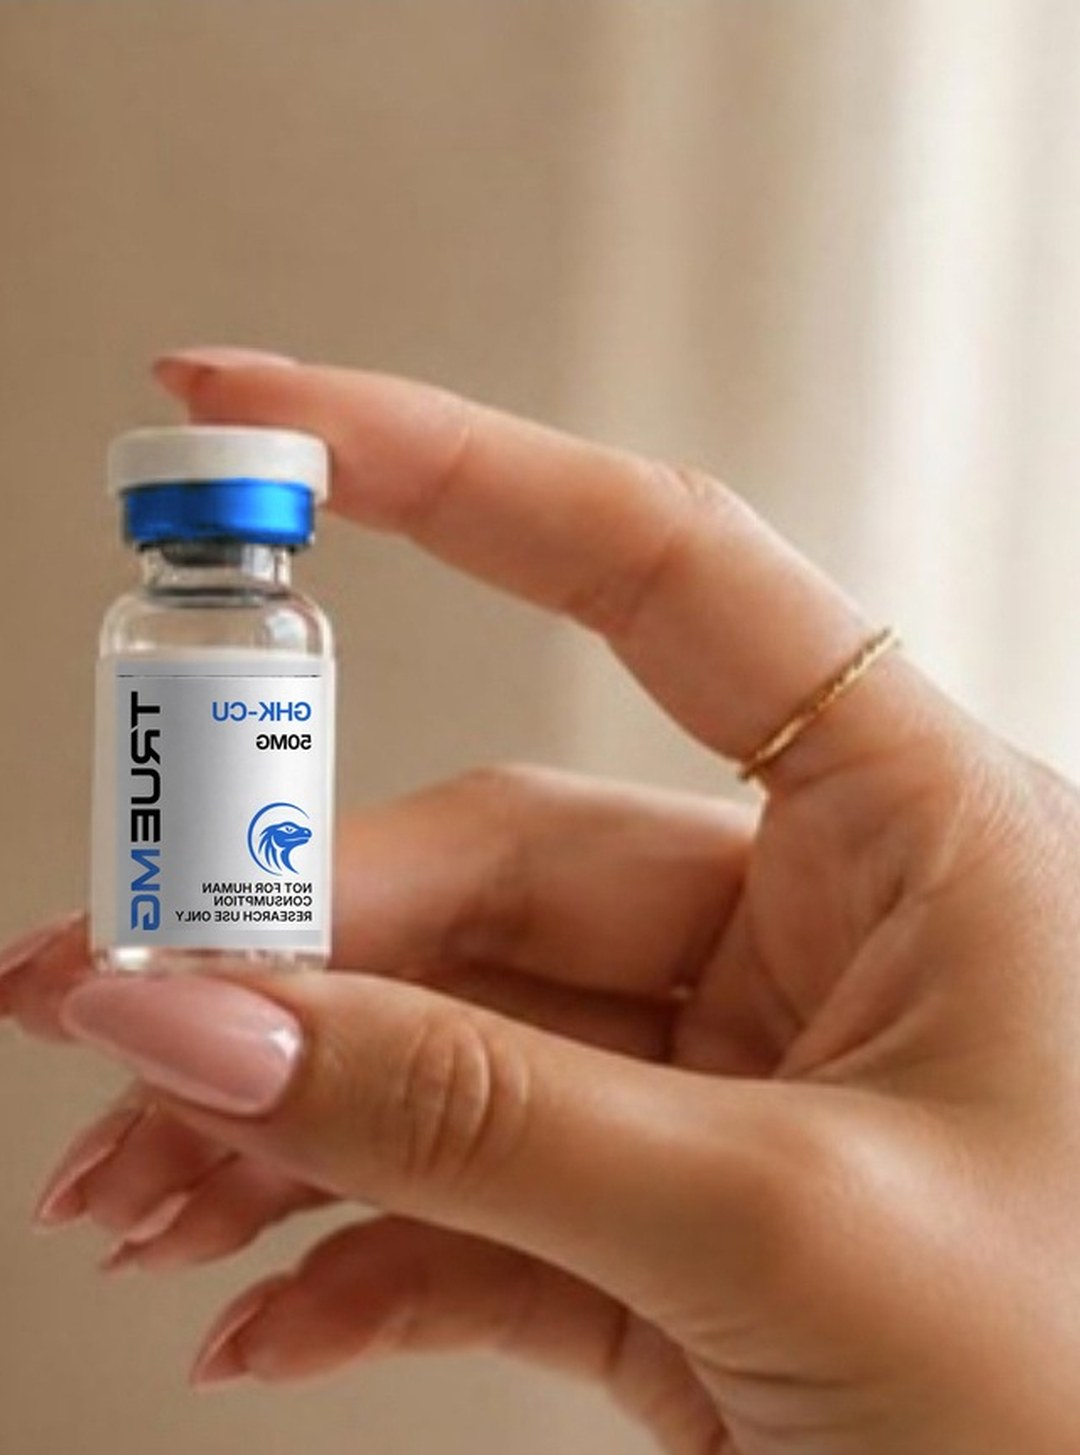
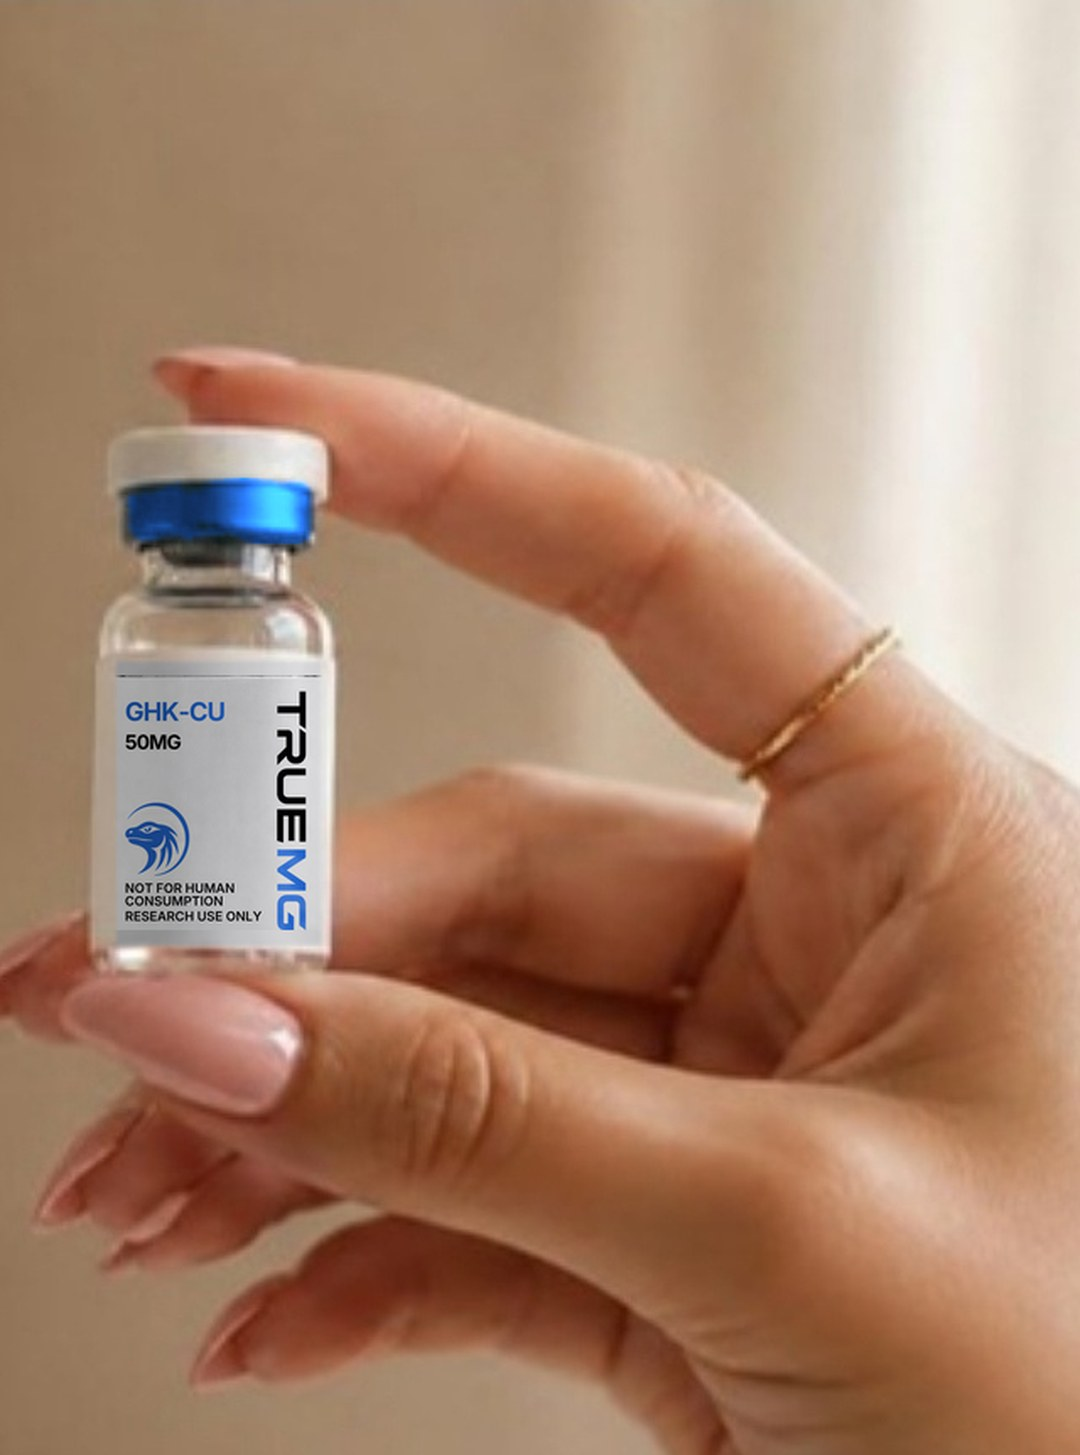
Mirror the plate before labelling it, not after
Flipping the finished composite flipped the artwork with it: GHK-CU came out
backwards on the hero. The mirror now happens to the photograph first, with the
label panel and crimp boxes mirrored to match, and the artwork goes on the
right way round afterwards.

Claude-Session: https://claude.ai/code/session_01GVck48CzMY6cqm4QCmkhM1

Changed region(s): [[0.0917, 0.4639, 0.3056, 0.6495]]

diff --git a/truemg/assets/web/handvial.py b/truemg/assets/web/handvial.py
@@ -33,6 +33,13 @@ PLATE = "hand-vial.jpg"
 NAME = "ghk-cu"                            # any sprite in ../vials
 OUT = "hand-vial-labelled.jpg"
 
+# The hero's headline owns the left, so a hero cut of this needs the hand
+# entering from the right. Mirroring costs nothing in the photograph — no text,
+# no handedness that reads as wrong — but it MUST happen before the label goes
+# on, not after. Flipping the finished composite flips the artwork with it and
+# "GHK-CU" comes out backwards, which is exactly what the first attempt did.
+MIRROR = False
+
 # The blank panel, measured off the plate.
 BOX = (748, 390, 873, 562)                 # left, top, right, bottom
 
@@ -86,10 +93,10 @@ def relight(art, panel):
     return np.asarray(art).astype(float) * lum[..., None]
 
 
-def recolour_crimp(im):
+def recolour_crimp(im, crimp):
     """Move the crimp ring's hue to the brand blue without flattening it."""
     a = np.asarray(im).astype(float)
-    x0, y0, x1, y1 = CRIMP
+    x0, y0, x1, y1 = crimp
     reg = a[y0:y1, x0:x1]
     r, g, b = reg[:, :, 0], reg[:, :, 1], reg[:, :, 2]
     blue = (b > r + 12) & (b > 60)                             # the ring, not the fingers
@@ -101,12 +108,23 @@ def recolour_crimp(im):
     return Image.fromarray(a.clip(0, 255).astype(np.uint8))
 
 
-if __name__ == "__main__":
+def plate():
+    """The photograph, flipped first if the hero cut needs it, with the panel
+    and crimp boxes mirrored to match."""
     im = Image.open(PLATE).convert("RGB")
-    x0, y0, x1, y1 = BOX
+    if not MIRROR:
+        return im, BOX, CRIMP
+    W = im.width
+    mx = lambda b: (W - b[2], b[1], W - b[0], b[3])
+    return im.transpose(Image.FLIP_LEFT_RIGHT), mx(BOX), mx(CRIMP)
+
+
+def build(out=None):
+    im, box, crimp = plate()
+    x0, y0, x1, y1 = box
     w, h = x1 - x0, y1 - y0
 
-    panel = im.crop(BOX)
+    panel = im.crop(box)
     art = relight(fit(label_art(), w, h), panel)
 
     # feather the panel's edge so the artwork meets the glass the way the
@@ -116,6 +134,19 @@ if __name__ == "__main__":
     mask = mask.filter(ImageFilter.GaussianBlur(1.1))
 
     im.paste(Image.fromarray(art.clip(0, 255).astype(np.uint8)), (x0, y0), mask)
-    im = recolour_crimp(im)
-    im.save(OUT, quality=93, optimize=True)
-    print(f"  {OUT:26s} {im.width}x{im.height}  {os.path.getsize(OUT) // 1024} KB  [{NAME}]")
+    im = recolour_crimp(im, crimp)
+    out = out or OUT
+    im.save(out, quality=93, optimize=True)
+    print(f"  {out:26s} {im.width}x{im.height}  {os.path.getsize(out) // 1024} KB  [{NAME}]")
+    return im
+
+
+if __name__ == "__main__":
+    build()
+    globals()["MIRROR"] = True
+    m = build("hand-vial-mirrored.jpg")
+    # the hero shapes, cut from the correctly-mirrored composite
+    for name, bx, size in (("hero-hand.jpg", (0, 0, 1920, 862), (2560, 1150)),
+                           ("hero-hand-mobile.jpg", (980, 0, 1620, 862), (1080, 1455))):
+        m.crop(bx).resize(size, Image.LANCZOS).save(name, quality=88, optimize=True)
+        print(f"  {name:26s} {size[0]}x{size[1]}  {os.path.getsize(name) // 1024} KB")
